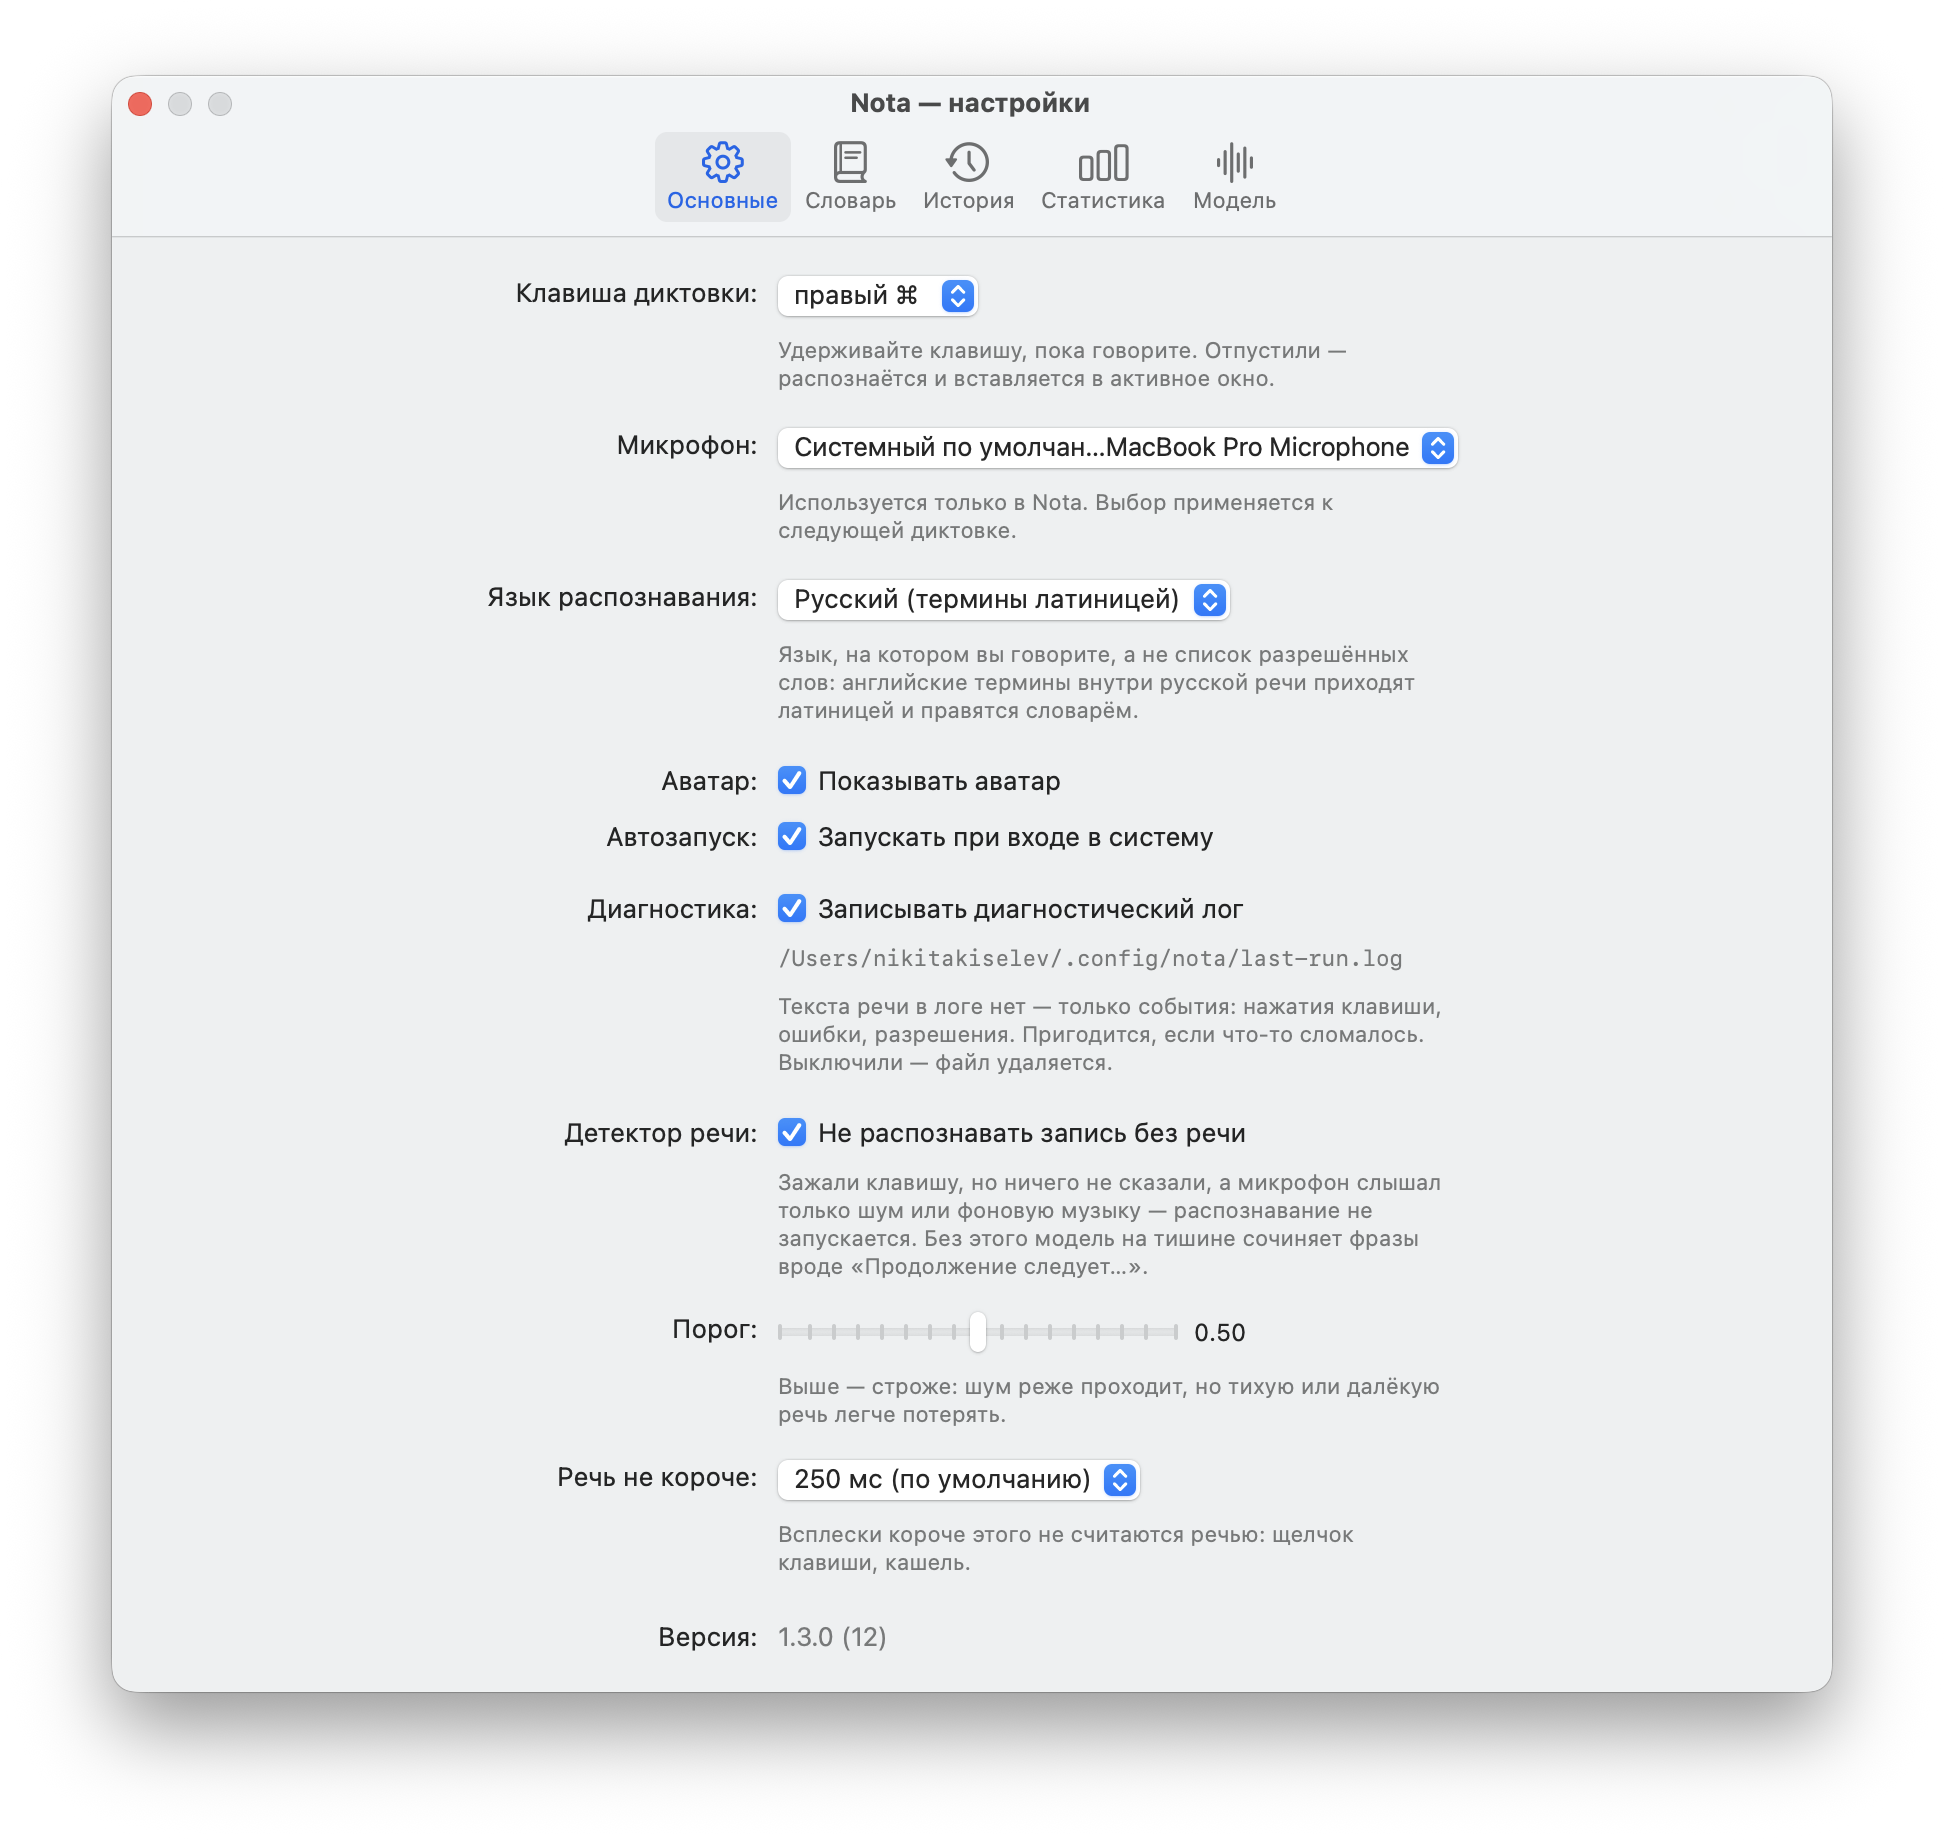
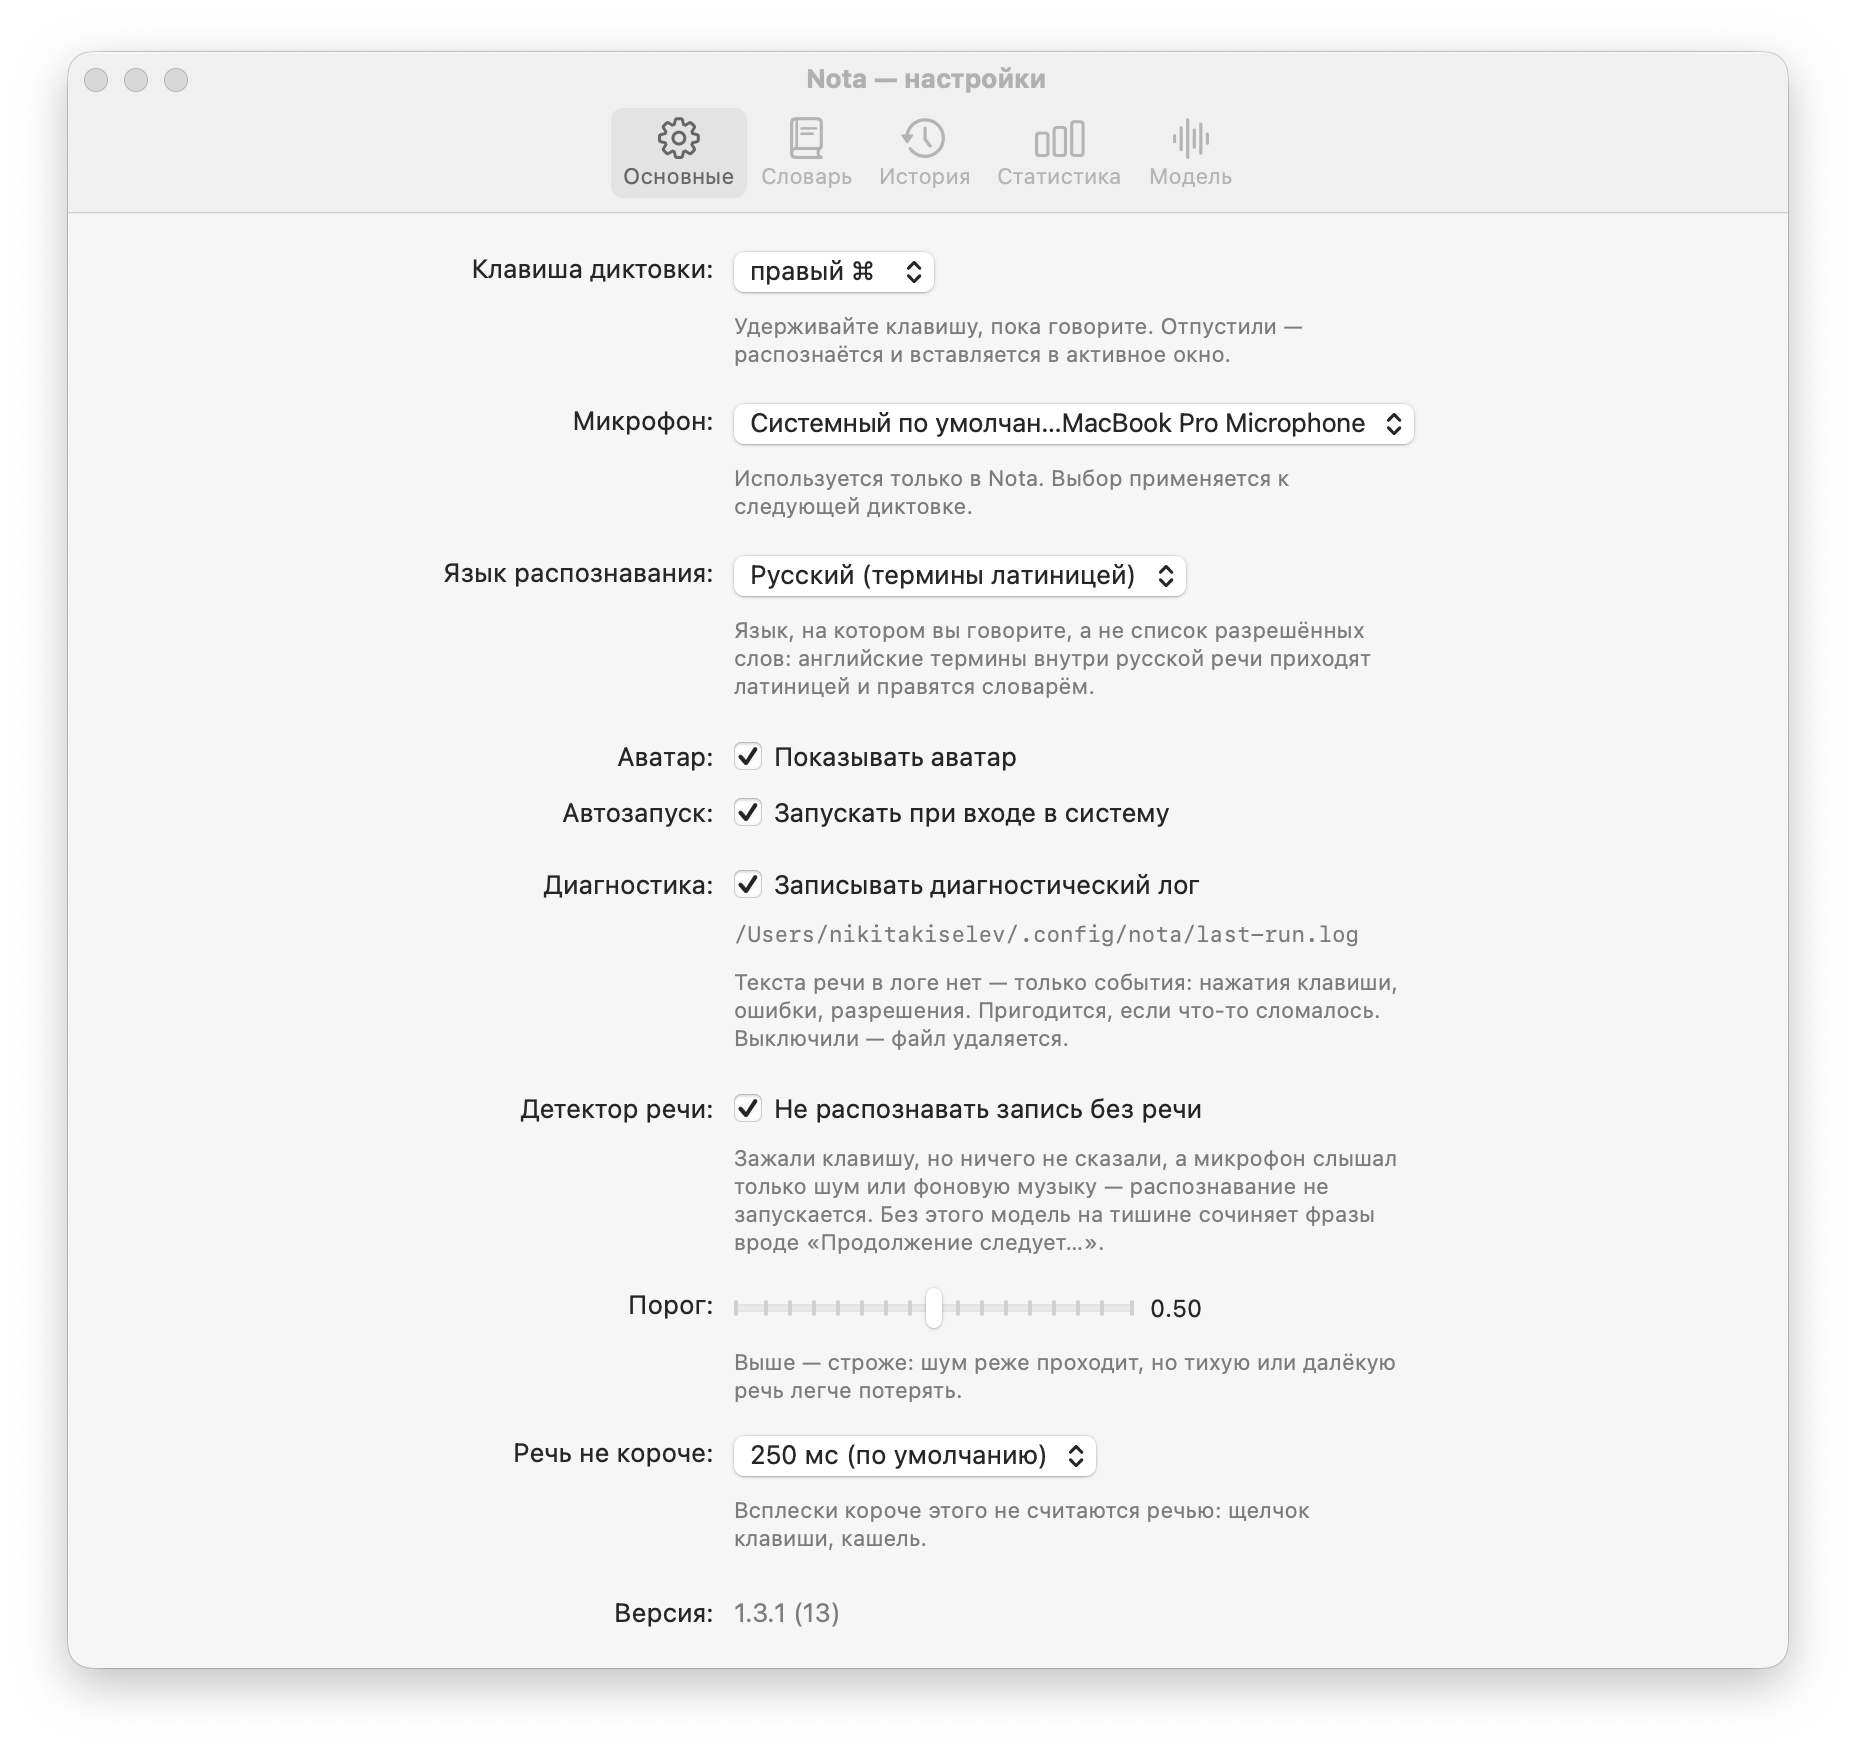
Nota 1.3.1: исправления истории, клавиши и модели
Обновлены описание исправлений и снимок основных настроек версии 1.3.1 (13). Хеш снимка обновлён для сброса кэша Pages.

Changed region(s): [[0.0312, 0.0308, 0.9688, 0.9555], [0.0312, 0.0308, 0.125, 0.0616]]

diff --git a/index.html b/index.html
@@ -433,6 +433,9 @@
       <p class="mt-5 text-lg text-ink-soft leading-relaxed">
         Пять вкладок: Основные, Словарь, История, Статистика, Модель. Каждое
         слово словаря проверяется на живом тексте прямо в окне.
+        В версии 1.3.1 исправлены сохранение и удаление истории, применение
+        горячей клавиши и загрузка модели; технические имена C#, .NET и C++
+        сохраняются целиком при обучении из истории.
         Нажмите на снимок, чтобы открыть его крупно.
       </p>
     </div>
@@ -444,7 +447,7 @@
 
         <div class="swiper-slide">
           <figure class="flex flex-col items-center gap-3.5">
-            <img src="assets/screenshots/settings-general@2x.png?v=c21ce5ce" alt="Настройки Nota, вкладка «Основные»: клавиша диктовки, язык, аватар, автозапуск, диагностический лог, детектор речи, версия" class="h-[clamp(230px,30vw,440px)] w-auto max-w-[78vw] cursor-zoom-in" />
+            <img src="assets/screenshots/settings-general@2x.png?v=82e2897f" alt="Настройки Nota, вкладка «Основные»: клавиша диктовки, язык, аватар, автозапуск, диагностический лог, детектор речи, версия" class="h-[clamp(230px,30vw,440px)] w-auto max-w-[78vw] cursor-zoom-in" />
             <figcaption class="font-mono text-xs text-ink-soft text-center max-w-[32ch] leading-relaxed">Основные — клавиша, язык, аватар, детектор речи</figcaption>
           </figure>
         </div>

diff --git a/README.md b/README.md
@@ -33,6 +33,9 @@
 - **Можно не оставлять следов.** История последних фраз и
   диагностический лог выключаются в настройках — тогда текст диктовок не
   сохраняется на диске вовсе.
+- **В 1.3.1 исправлены история, горячая клавиша и загрузка модели.**
+  Удалённые фразы не возвращаются при сохранении диктовки, смена клавиши
+  применяется сразу, а обучение словаря сохраняет C#, F#, .NET и C++ целиком.
 - **Статистика**: сколько слов надиктовано, темп речи, сколько времени
   сэкономлено против набора руками.
 
